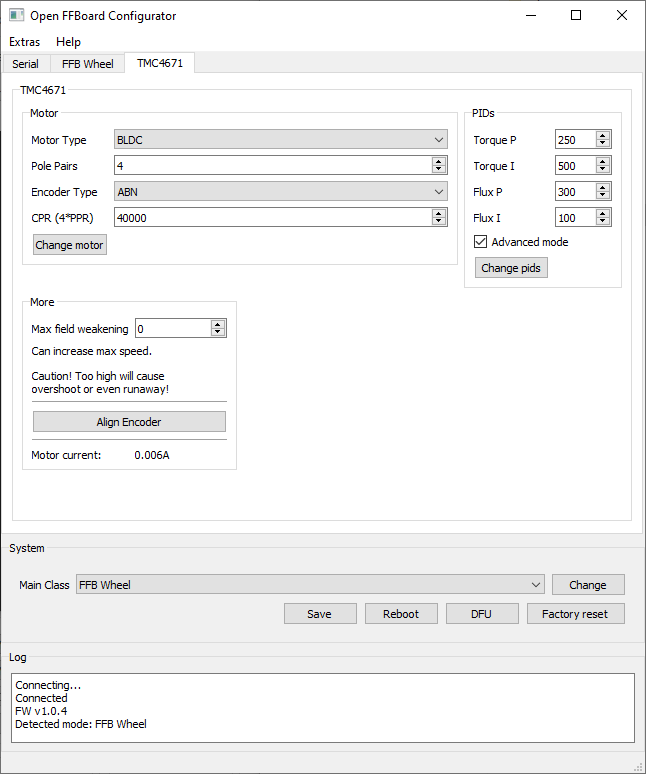
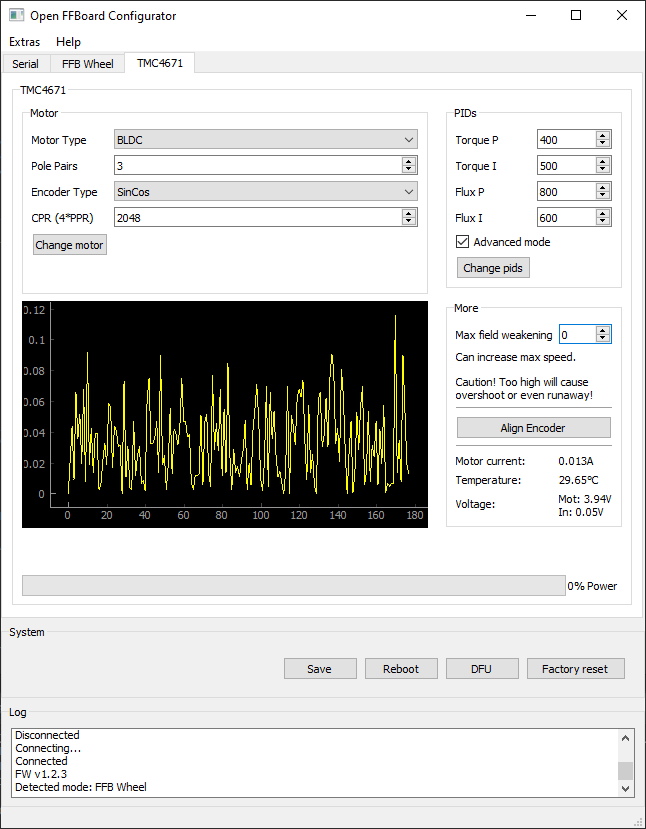
moved main class selector to serial ui

diff --git a/serial_ui.py b/serial_ui.py
@@ -5,9 +5,13 @@ from PyQt5.QtSerialPort import QSerialPort,QSerialPortInfo
 from PyQt5.QtCore import QIODevice,pyqtSignal
 import main
 from base_ui import WidgetUI
+from helper import classlistToIds
+from PyQt5.QtWidgets import QMessageBox
 
 class SerialChooser(WidgetUI):
     connected = pyqtSignal(bool)
+    classes = []
+    classIds = {}
     port = None
     def __init__(self,serial, main):
         WidgetUI.__init__(self, main,'serialchooser.ui')
@@ -18,6 +22,7 @@ class SerialChooser(WidgetUI):
         self.comboBox_port.currentIndexChanged.connect(self.selectPort)
         self.pushButton_send.clicked.connect(self.sendLine)
         self.lineEdit_cmd.returnPressed.connect(self.sendLine)
+        self.pushButton_ok.clicked.connect(self.mainBtn)
         
         self.getPorts()
 
@@ -49,6 +54,7 @@ class SerialChooser(WidgetUI):
             self.pushButton_send.setEnabled(True)
             self.lineEdit_cmd.setEnabled(True)
             self.connected.emit(True)
+            self.getMainClasses()
         else:
             self.pushButton_connect.setText("Connect")
             self.comboBox_port.setEnabled(True)
@@ -56,6 +62,7 @@ class SerialChooser(WidgetUI):
             self.pushButton_send.setEnabled(False)
             self.lineEdit_cmd.setEnabled(False)
             self.connected.emit(False)
+            self.groupBox_system.setEnabled(False)
 
 
     def serialConnect(self):
@@ -89,3 +96,32 @@ class SerialChooser(WidgetUI):
         if oldport in plist:
             self.comboBox_port.setCurrentIndex(plist.index(oldport))
         self.selectPort(self.comboBox_port.currentIndex())
+
+
+    def getMainClasses(self):
+        def updateMains(dat):
+            self.comboBox_main.clear()
+            self.classIds,self.classes = classlistToIds(dat)
+            
+            if(self.mainID == None):
+                #self.main.resetPort()
+                self.groupBox_system.setEnabled(False)
+                return
+            self.groupBox_system.setEnabled(True)
+            for c in self.classes:
+                self.comboBox_main.addItem(c[1])
+            self.comboBox_main.setCurrentIndex(self.classIds[self.mainID][0])
+            self.main.log("Detected mode: "+self.comboBox_main.currentText())
+            self.main.updateTabs()
+
+        def f(i):
+            self.mainID = i
+        self.main.comms.serialGetAsync("id?",f,int)
+        self.main.comms.serialGetAsync("lsmain",updateMains)
+
+    def mainBtn(self):
+        id = self.classes[self.comboBox_main.currentIndex()][0]
+        self.main.comms.serialWrite("main="+str(id)+"\n")
+        self.main.resetPort()
+        msg = QMessageBox(QMessageBox.Information,"Main class changed","Please reconnect.\n Depending on the main class the serial port may have changed.")
+        msg.exec_()

diff --git a/system_ui.py b/system_ui.py
@@ -1,31 +1,22 @@
 from PyQt5.QtWidgets import QMainWindow
 from PyQt5.QtWidgets import QWidget,QDialog,QVBoxLayout
-from PyQt5.QtWidgets import QMessageBox
 from PyQt5 import uic
-from helper import res_path,classlistToIds
+from helper import res_path
 from PyQt5.QtCore import QTimer
 from base_ui import WidgetUI
 
 class SystemUI(WidgetUI):
-    classes = []
-    classIds = {}
+    
     mainID = None
     def __init__(self, main=None):
 
         WidgetUI.__init__(self, main,'baseclass.ui')
         self.setEnabled(False)
-        self.pushButton_ok.clicked.connect(self.mainBtn)
         self.pushButton_reboot.clicked.connect(self.reboot)
         self.pushButton_dfu.clicked.connect(self.dfu)
         self.pushButton_reset.clicked.connect(self.factoryResetBtn)
         self.pushButton_save.clicked.connect(self.saveClicked)
 
-
-    def serialConnected(self,connected):
-        if(connected):
-            self.getMainClasses()
-        else:
-            self.setEnabled(False)
 
     def saveClicked(self):
         def f(res):
@@ -36,13 +27,6 @@ class SystemUI(WidgetUI):
         self.pushButton_save.setEnabled(on)
 
 
-    def mainBtn(self):
-        id = self.classes[self.comboBox_main.currentIndex()][0]
-        self.main.comms.serialWrite("main="+str(id)+"\n")
-        self.main.resetPort()
-        msg = QMessageBox(QMessageBox.Information,"Main class changed","Please reconnect.\n Depending on the main class the serial port may have changed.")
-        msg.exec_()
-  
     def reboot(self):
         self.main.comms.serialWrite("reboot\n")
         self.main.reconnect()
@@ -68,24 +52,5 @@ class SystemUI(WidgetUI):
         msg.buttonClicked.connect(self.factoryReset)
         msg.exec_()
 
-    def getMainClasses(self):
-        def updateMains(dat):
-            self.comboBox_main.clear()
-            self.classIds,self.classes = classlistToIds(dat)
-            
-            if(self.mainID == None):
-                #self.main.resetPort()
-                self.setEnabled(False)
-                return
-            self.setEnabled(True)
-            for c in self.classes:
-                self.comboBox_main.addItem(c[1])
-            self.comboBox_main.setCurrentIndex(self.classIds[self.mainID][0])
-            self.main.log("Detected mode: "+self.comboBox_main.currentText())
-            self.main.updateTabs()
 
-        def f(i):
-            self.mainID = i
-        self.main.comms.serialGetAsync("id?",f,int)
-        self.main.comms.serialGetAsync("lsmain",updateMains)
-        
+  

diff --git a/main.py b/main.py
@@ -62,7 +62,7 @@ class MainUi(QMainWindow):
         self.serialchooser.connected.connect(self.serialConnected)
         self.timer.start(5000)
         self.systemUi = system_ui.SystemUI(main = self)
-        self.serialchooser.connected.connect(self.systemUi.serialConnected)
+        self.serialchooser.connected.connect(self.systemUi.setEnabled)
 
         self.actionFFB_Wheel_TMC_wizard.triggered.connect(self.ffbwizard)
         self.actionDFU_Uploader.triggered.connect(self.dfuUploader)
@@ -90,7 +90,7 @@ class MainUi(QMainWindow):
 
     def updateTimer(self):
         def f(i):
-            if i != self.systemUi.mainID:
+            if i != self.serialchooser.mainID:
                 self.resetPort()       
                 self.log("Communication error. Please reconnect")
             else:
@@ -108,7 +108,7 @@ class MainUi(QMainWindow):
             
 
     def log(self,s):
-        self.logBox.append(s)
+        self.systemUi.logBox_1.append(s)
 
     def tabChanged(self,id):
         pass
